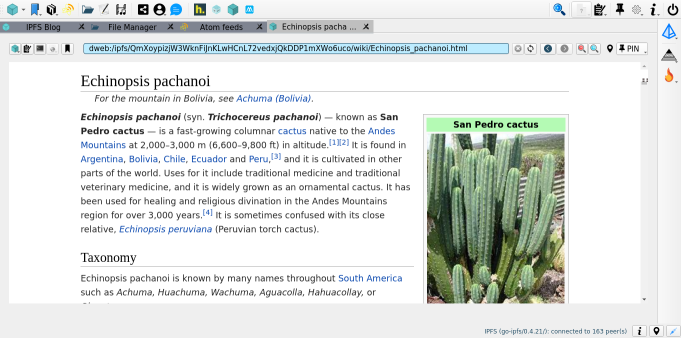
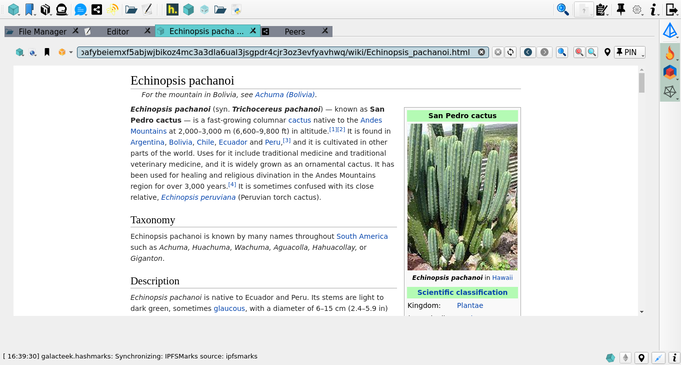
README and screenshots update
Bundle fs-repo-migrations in the DMG

diff --git a/galacteek/core/profile.py b/galacteek/core/profile.py
@@ -370,7 +370,7 @@ class DIDRsaKeyStore:
         self.__profile = profile
 
     def _privateKeyForDid(self, did):
-        from Crypto.PublicKey import RSA
+        from Cryptodome.PublicKey import RSA
 
         match = didIdentRe.match(did)
         if not match:

diff --git a/README.rst b/README.rst
@@ -8,6 +8,8 @@
 
 .. image:: https://travis-ci.org/pinnaculum/galacteek.svg?branch=master
     :target: https://travis-ci.org/pinnaculum/galacteek
+.. image:: https://raw.githubusercontent.com/pinnaculum/galacteek/raw/master/share/icons/donate.png
+    :target: https://github.com/sponsors/pinnaculum
 
 **galacteek** is a multi-platform Qt5-based browser/toolbox
 for the IPFS_ peer-to-peer network.
@@ -18,28 +20,32 @@ Installation
 * **AppImage (Linux)**: `Galacteek-0.4.21-x86_64.AppImage <https://github.com/pinnaculum/galacteek/releases/download/v0.4.21/Galacteek-0.4.21-x86_64.AppImage>`_
 * **DMG (MacOS)**: `Galacteek-0.4.21.dmg <https://github.com/pinnaculum/galacteek/releases/download/v0.4.21/Galacteek-0.4.21.dmg>`_
 
-*MacOS notes*: After opening/mounting the DMG image, hold Control and click on the
+*On Linux*: Be sure to install all the **gstreamer** packages on your
+system to be able to use the mediaplayer.
+
+*On MacOS*: After opening/mounting the DMG image, hold Control and click on the
 **galacteek** icon, and select **Open** and accept. You probably need to
 allow the system to install applications *from anywhere* in the security
 settings.
 
 See the releases_ page for all releases.
 
-Command-line usage
-==================
+Screenshots
+===========
 
-Use the *-d* command-line switch to enable debugging output. Using *--profile* gives
-you the ability to have separate application profiles (*main* is the default
-profile). Use *--help* for all options.
+.. figure:: https://gitlab.com/galacteek/galacteek/raw/master/screenshots/browse-wikipedia-small.png
+    :target: https://gitlab.com/galacteek/galacteek/raw/master/screenshots/browse-wikipedia.png
+    :align: center
+    :alt: Browsing the Wikipedia mirror over IPFS
 
-Enable colorized log output with **--log-color**
+    Browsing the Wikipedia mirror over IPFS
 
-Use the **--no-ipfsscheme-mutex** switch to disable mutexes in the native IPFS scheme
-handler.
+.. figure:: https://gitlab.com/galacteek/galacteek/raw/master/screenshots/qr-codes-mezcla.png
+    :target: https://gitlab.com/galacteek/galacteek/raw/master/screenshots/qr-codes-mezcla.png
+    :align: center
+    :alt: QR codes
 
-*Development*: Use *--monitor* to enable event-loop monitoring with aiomonitor_
-(install aiomonitor_ manually as it's not a dependency).
-Then connect to the aiomonitor_ interface with **nc localhost 50101**
+    IPFS QR codes
 
 Features
 ========
@@ -65,33 +71,32 @@ should enable pubsub and p2p streams, or some features won't be available.
 - Image viewer
 - QR codes from images
 
+Command-line usage
+==================
+
+Use the *-d* command-line switch to enable debugging output. Using *--profile* gives
+you the ability to have separate application profiles (*main* is the default
+profile). Use *--help* for all options.
+
+Enable colorized log output with **--log-color**
+
+Use the **--no-ipfsscheme-mutex** switch to disable mutexes in the native IPFS scheme
+handler.
+
+*Development*: Use *--monitor* to enable event-loop monitoring with aiomonitor_
+(install aiomonitor_ manually as it's not a dependency).
+Then connect to the aiomonitor_ interface with **nc localhost 50101**
+
 Keyboard shortcuts
 ==================
 
 Please see the shortcuts_ page (or from the application, click on the
 Information icon in the toolbar, which will open the documentation).
 
-Screenshots
-===========
-
-.. figure:: https://gitlab.com/galacteek/galacteek/raw/master/screenshots/browse-wikipedia-small.png
-    :target: https://gitlab.com/galacteek/galacteek/raw/master/screenshots/browse-wikipedia.png
-    :align: center
-    :alt: Browsing the Wikipedia mirror over IPFS
-
-    Browsing the Wikipedia mirror over IPFS
-
-.. figure:: https://gitlab.com/galacteek/galacteek/raw/master/screenshots/qr-codes-mezcla.png
-    :target: https://gitlab.com/galacteek/galacteek/raw/master/screenshots/qr-codes-mezcla.png
-    :align: center
-    :alt: QR codes
-
-    IPFS QR codes
-
 Contributions
 =============
 
-Code contributions that can help:
+Contributions that can help:
 
 - Write DID services (a chat service using JSON-LD for example)
 - Translations (french, spanish)
@@ -109,10 +114,10 @@ Platforms supported
 Requirements
 ============
 
-- python3 >= 3.6
-- go-ipfs_ >= 0.4.7
-- PyQt5 >= 5.12.2
-- PyQtWebengine >= 5.12
+- python3 >= 3.7
+- go-ipfs_ >= 0.5.0
+- PyQt5 >= 5.13.2
+- PyQtWebengine >= 5.13.2
 - gstreamer (on Linux) for media player support
 - git
 - quamash_
